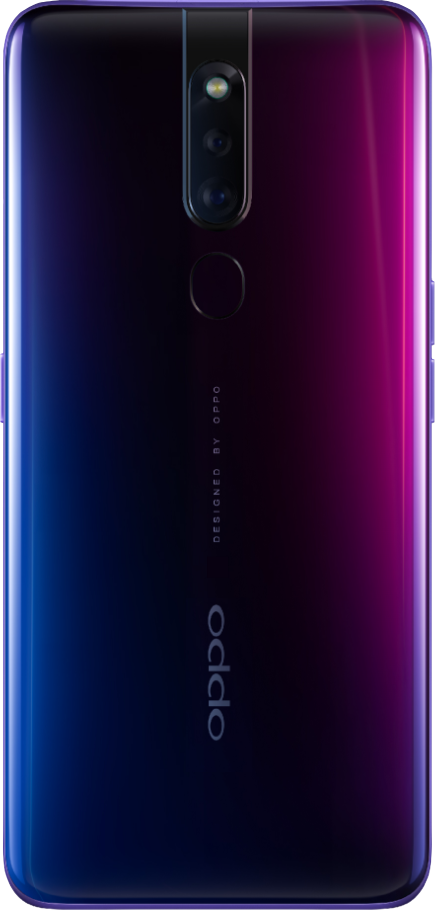
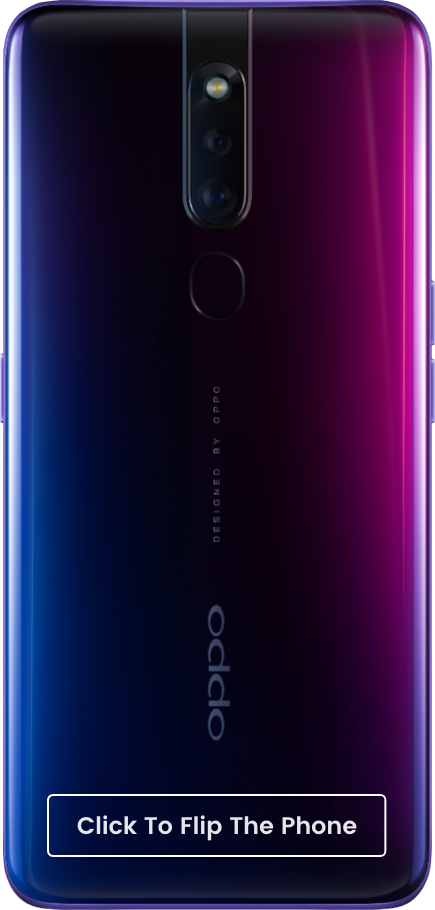
Oppo Changes

diff --git a/dev/oppo-f11/assets/css/themes.css b/dev/oppo-f11/assets/css/themes.css
@@ -644,16 +644,29 @@ transform: translate3d(0, 0, 0)
     margin: 0 auto;
     max-width: 300px;
     height: 680px;
-    perspective: 680px;
     padding-top: 35px;
+
+    perspective: 680px;
+    -webkit-perspective: 800px;
+    -o-perspective: 800px;
+    -moz-perspective: 800px;
 }
 .card {
+    position: relative;
+    
+
     width: 100%;
     height: 100%;
-    transition: transform 1s;
     transform-style: preserve-3d;
-    /* cursor: pointer; */
-    position: relative;
+    transition: transform 1s;
+    -webkit-transform-style: preserve-3d;
+    -webkit-transition: -webkit-transform 1s;
+    -o-transform-style: preserve-3d;
+    -o-transition: -o-transform 1s;
+    -moz-transform-style: preserve-3d;
+    -moz-transition: -moz-transform 1s;
+
+    z-index: 99;
 }
 
 .flip-btn {
@@ -669,28 +682,38 @@ transform: translate3d(0, 0, 0)
     text-align: center;
     padding: 8px 0;
     border-radius: 5px;
-    border: 2px #fff solid
+    border: 2px #fff solid;
 }
 
 .device-camera {
+    overflow: hidden;
     position: absolute;
     top: 0;
     left: 0;
     right: 0;
     margin: 0 auto;
     width: 58px;
-    height: 40px;
-    /* background-color: #000; */
+    height: 35px;
+    z-index: 0;
 }
 
 .card.is-flipped {
     transform: rotateY(180deg);
+    -moz-transform: rotateY(180deg);
+    -webkit-transform: rotateY(180deg);
+    -o-transform: rotateY(180deg);
+}
+.card.is-flipped .card.is-flipped {
+    z-index: 999;
 }
 .card__face {
     position: absolute;
     width: 100%;
     height: 100%;
     backface-visibility: hidden;
+  -moz-backface-visibility: hidden;
+  -webkit-backface-visibility: hidden;
+  -o-backface-visibility: hidden;
 }
 .card__face--front {
 	cursor: pointer;
@@ -704,6 +727,9 @@ transform: translate3d(0, 0, 0)
 .card__face--back {
     /* background: blue; */
     transform: rotateY(180deg);
+    -moz-transform: rotateY(180deg);
+    -webkit-transform: rotateY(180deg);
+    -o-transform: rotateY(180deg);
     background-image: url(../images/oppo-front.png);
     background-repeat: no-repeat;
     background-position: top;

diff --git a/dev/oppo-f11/index.html b/dev/oppo-f11/index.html
@@ -60,7 +60,7 @@ _comscore.push(COMSCORE_OPTS);
 
         <div class="card">
             <div class="card__face card__face--front">
-                <div class="flip-btn">Click to Flip the Phone</div>
+                <!-- <div class="flip-btn">Click to Flip the Phone</div> -->
             </div>
             <div class="card__face card__face--back">
                 <div class="circle-list">
@@ -109,10 +109,12 @@ _comscore.push(COMSCORE_OPTS);
 // });
 $(".card").on('click', function() {
     $(this).addClass("is-flipped");
+    $(".flip-btn").css({"opacity":"0"})
     setTimeout(function(){
         $(".is-ani-left").addClass("ani-left-visible");
         $(".circle-list li").addClass("is-visible");
     }, 600);
+    
 });
 </script>
 </body>
